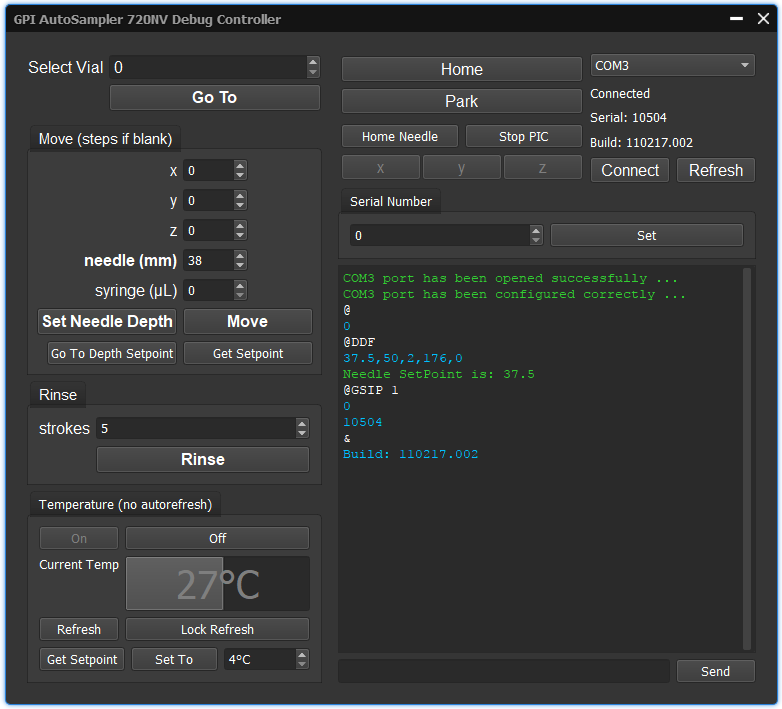
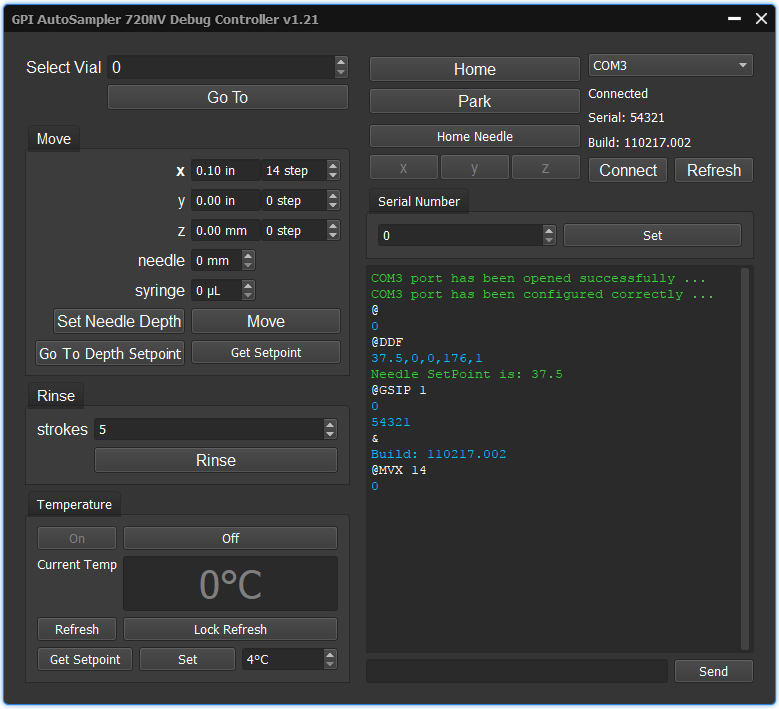
🐛Fix the bug where moving needle command would not clear the x motion axis input. Make gitignore more general and less system specific. 📝Update screenshot for new release: v1.21

diff --git a/src/gpicontroller.cpp b/src/gpicontroller.cpp
@@ -310,6 +310,7 @@ void gpicontroller::spinboxNeedle_valueChanged()
 {
     ui->spinboxNeedle->blockSignals(true); // to stop from trigging self on the line below the next with "setValue()"
     make_labels_normal_weight(ui->labelNeedle);
+    ui->spinboxX->setValue(0);
     ui->spinboxY->setValue(0);
     ui->spinboxZ->setValue(0);
     ui->spinboxSyringe->setValue(0);
